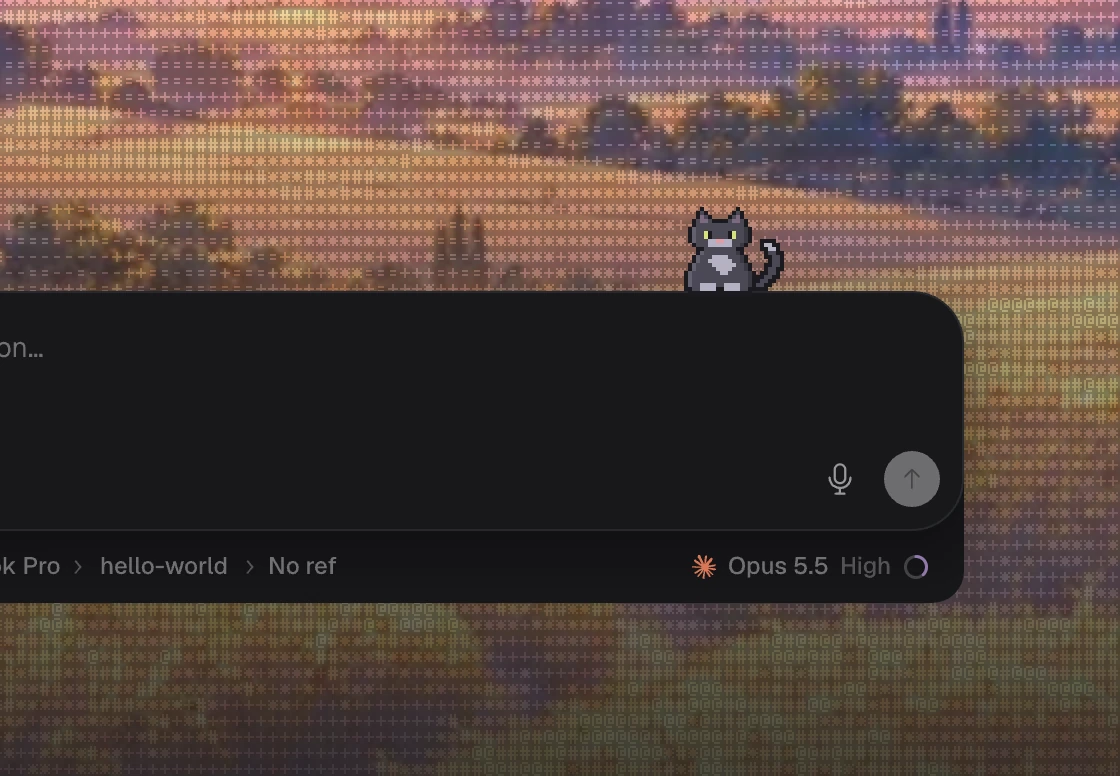
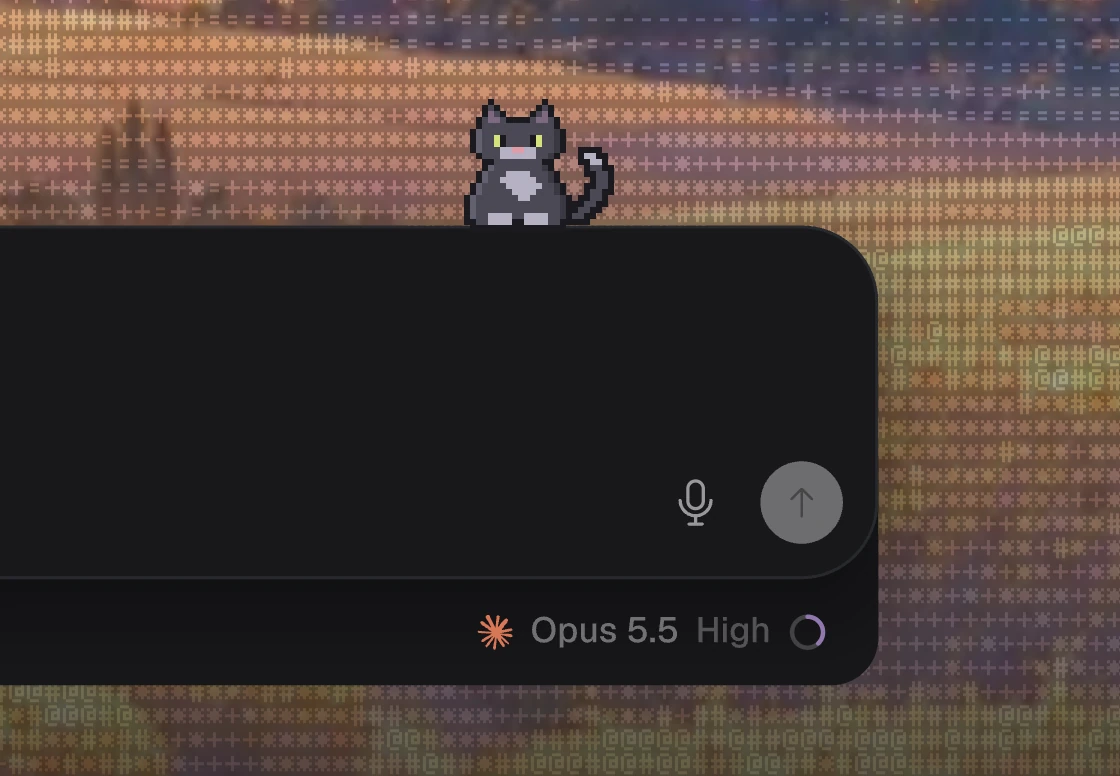
Landing cards: closer cuts, the cat on its feet, the chart alone
The cat card shows the composer's right half; the pixel sprite stands on
its foot, so a whole-pixel size never lifts it off the composer. The
machines card shows the Device list whole. The visuals card shows the
reply's visual alone, 340 wide, over Aurora's sky.

diff --git a/apps/landing/public/hero/cards.js b/apps/landing/public/hero/cards.js
@@ -16,14 +16,17 @@ const SCENES = {
 };
 const scene = (slug) => ({ slug, layers: SCENES[slug] });
 
-// A card: 560×388 points of the window (the gallery's 907×627 shape).
+// A card: 560×388 points of the window (the gallery's 907×627 shape), or
+// a closer cut of the same shape (zoomed in: more device pixels a point,
+// so it stays as sharp).
 const W = 560, H = 388;
+const zoomed = (x, y, w) => ({ crop: [x, y, w, (w * H) / W], maxScale: (2 * W) / w });
 // zeron/zgx's wallpaper: its layer is the art's box, the window's width
 // from the page's right edge (6 + 1164 − 1176 = −6), under the page card's
 // clip (the card inside its edge, radius 11), drawn through that branch's
 // ASCII.
 const ART_BOX = [NODE[0] + NODE[2] - WINDOW.w, NODE[1], WINDOW.w, NODE[3]];
-const base = (slug, crop) => ({
+const base = (slug, crop = [0, 0, W, H]) => ({
   window: WINDOW,
   crop,
   scene: scene(slug),
@@ -72,7 +75,10 @@ function catCard() {
     wake?.();
   }
   return {
-    ...base("wheat", [436, 150, W, H]),
+    // (Closer in: the composer's right half, its cat, the model chip, and
+    // the field above; cut only where the composer is empty.)
+    ...base("wheat"),
+    ...zoomed(620, 219, 380),
     label: "A pixel-art cat sitting on the Zeron message box over a golden wheat field drawn in characters",
     over: drawOver,
     sprites: [sprite],
@@ -105,7 +111,11 @@ function machinesCard() {
   const place = { device: "MacBook Pro", project: "site", branch: "main", open: true };
   const over = (ctx, s) => { drawOver(ctx, s, { place }); drawPopups(ctx, s); };
   return {
-    ...base("icebergs", [356, 360, W, H]),
+    // (Closer in: the device list whole, beside the Work in panel's right
+    // edge (its chevrons, the current branch's tag) and under the
+    // composer's foot with the model chip; cut where there's no text.)
+    ...base("icebergs"),
+    ...zoomed(564, 412, 420),
     label: "The Zeron composer's Work in menu open on a list of machines: this MacBook Pro, a Linux devbox, a Mac mini that's offline, and Cloud, over icebergs drawn in characters",
     over,
     ready: () => iconsReady([drawUnder, over]),
@@ -114,11 +124,16 @@ function machinesCard() {
 
 // ---------------------------------------------------------------- visuals
 
-// A session's reply with its visual, cut out of the session page (a session
-// has no wallpaper: the cut-out laid on the new chat's, Aurora), rounded as
-// the page card is (12) and shadowed as the composer is (0 12 32 #00000066).
-// tools/native/compose-visuals.py makes the native reference the same way.
-const PIECE = [336, 128, 504, 352];
+// A reply's visual alone (show_visual: a title, a legend, a grouped bar
+// chart; the visual 340 wide, a column of that width in a row), cut out of
+// the session page with 20 around it (a session has no wallpaper: the
+// cut-out laid on the new chat's, Aurora, up in the sky, clear of the
+// page's ask), rounded as the page card is (12) and shadowed as the
+// composer is (0 12 32 #00000066). Whole points from the app's layout, so
+// its text falls on the same device-pixel phases.
+const CROP_V = zoomed(30, 62, 436);
+const VISUAL = { x: 78, y: 106, width: 340, paragraph: false };
+const PIECE = [VISUAL.x - 20, VISUAL.y - 20, VISUAL.width + 40, 64 + 150 + 40];
 function visualsCard() {
   const over = (ctx, s) => {
     const [x, y, w, h] = PIECE;
@@ -129,12 +144,13 @@ function visualsCard() {
     ctx.clip();
     ctx.fillStyle = "rgb(22,22,24)";
     ctx.fillRect(x * s, y * s, w * s, h * s);
-    drawReply(ctx, s);
+    drawReply(ctx, s, VISUAL);
     ctx.restore();
   };
   return {
-    ...base("aurora", [308, 110, W, H]),
-    label: "A Zeron chat reply with a grouped bar chart the app drew itself, compile, link and test time over six months, over an aurora drawn in characters",
+    ...base("aurora"),
+    ...CROP_V,
+    label: "A grouped bar chart the Zeron app drew itself in a chat reply, compile, link and test time over six months, over an aurora drawn in characters",
     over,
     ready: () => iconsReady([drawUnder]),
   };

diff --git a/apps/landing/public/hero/chrome.js b/apps/landing/public/hero/chrome.js
@@ -591,29 +591,35 @@ const CARD_GROUND = [22, 22, 24];
 const SERIES = [["Compile", [146, 119, 176], [42, 38, 51, 47, 33, 29]], ["Link", [88, 194, 178], [12, 14, 11, 16, 9, 8]], ["Test", [233, 166, 75], [20, 22, 19, 25, 18, 21]]];
 const MONTHS = ["Jun", "Jul", "Aug", "Sep", "Oct", "Nov"];
 
-export function drawReply(ctx, s) {
-  const X = 356;
+// A reply's visual (show_visual): its title, legend and grouped bar chart,
+// as the app lays them. `x`, `y`: the column's left and the title's top;
+// `width`: the visual's (a column of that width in a row: the chart's
+// canvas spans it); `paragraph`: the reply's text above it too (15/24,
+// broken as the app breaks it at 464).
+export function drawReply(ctx, s, { x: X = 356, y: Y = 235, width: CW = 464, paragraph = true } = {}) {
   const primary = "rgb(237,237,239)";
-  // The paragraph: Geist 15/24, its lines as the app breaks them at 464.
-  ["Compile is still the biggest share, but it has dropped since August,", "when the workspace was split. Here are the last six months, by", "step:"]
-    .forEach((line, i) => text(ctx, s, line, X, 151 + 24 * i, 15, 400, primary, { line: 24 }));
+  if (paragraph) {
+    ["Compile is still the biggest share, but it has dropped since August,", "when the workspace was split. Here are the last six months, by", "step:"]
+      .forEach((line, i) => text(ctx, s, line, X, Y - 84 + 24 * i, 15, 400, primary, { line: 24 }));
+  }
   // The visual: its title (SemiBold 16/24), 12 below it the legend (8-point
   // dots, Geist 13/20 in text.secondary, 6 from the dot, 16 between).
-  text(ctx, s, "Where the build's time goes", X, 235, 16, 600, primary, { line: 24 });
+  text(ctx, s, "Where the build's time goes", X, Y, 16, 600, primary, { line: 24 });
   let lx = X;
   for (const [name, rgb] of SERIES) {
     ctx.beginPath();
-    ctx.arc((lx + 4) * s, 281 * s, 4 * s, 0, Math.PI * 2);
+    ctx.arc((lx + 4) * s, (Y + 46) * s, 4 * s, 0, Math.PI * 2);
     ctx.fillStyle = `rgb(${rgb.join(",")})`;
     ctx.fill();
     const w = Math.round(advanceOf(ctx, s, name, 13, 400));
-    text(ctx, s, name, lx + 14, 271, 13, 400, overF(T, 153 / 255, CARD_GROUND), { line: 20 });
+    text(ctx, s, name, lx + 14, Y + 36, 13, 400, overF(T, 153 / 255, CARD_GROUND), { line: 20 });
     lx += 14 + w + 16;
   }
-  // The plot (a canvas 464×150 at 356, 299): insets top 8, right 6, bottom
-  // 22, left the widest label + 8 (32.93: the app's label face measured);
-  // ticks 0..60 by 10 (nice_ticks over 0..51).
-  const top = 299 + 8, left = X + 32.93, pw = 464 - 32.93 - 6, ph = 120;
+  // The plot (a canvas CW×150, 64 under the title's top): insets top 8,
+  // right 6, bottom 22, left the widest label + 8 (32.93: the app's label
+  // face measured); ticks 0..60 by 10 (nice_ticks over 0..51, about 4: the
+  // same at any size).
+  const top = Y + 64 + 8, left = X + 32.93, pw = CW - 32.93 - 6, ph = 120;
   const vy = (v) => top + ph - (v / 60) * ph;
   for (let t = 0; t <= 60; t += 10) {
     ctx.fillStyle = over([255, 255, 255], t === 0 ? 18 : 10, CARD_GROUND);

diff --git a/apps/landing/public/hero/scene.js b/apps/landing/public/hero/scene.js
@@ -26,8 +26,10 @@
 //   sprites: [{ id, draw(ctx, s), box: [x, y, w, h], origin }]  drawn once
 //            or a pixel-art sprite: { id, frames: { name: image }, grid:
 //            [w, h], pixel (points a sprite pixel), at: [x, y] } — sampled
-//            nearest, a whole number of device pixels a sprite pixel, its
-//            corner on the device grid
+//            nearest, a whole number of device pixels a sprite pixel,
+//            standing on its foot (the bottom's middle) on the device grid
+//   maxScale                device pixels a point at most (default 2, the
+//                           app's own; a zoomed-in card allows more)
 //   animate(now) → { poses: { [id]: { rotate, alpha, frame } }, busy }  (optional)
 //   ready()                 a promise, before the first draw (icons, art)
 // }
@@ -120,8 +122,9 @@ export async function mountScene(container, spec, options = {}) {
   function resize() {
     const dpr = options.dpr ?? window.devicePixelRatio ?? 1;
     const css = container.clientWidth || cwPt;
-    // (At most the app's own 2x: past it the browser scales the canvas.)
-    scale = Math.min((css / cwPt) * dpr, 2);
+    // (At most the app's own 2x, or the spec's own cap for a zoomed-in
+    // card: past it the browser scales the canvas.)
+    scale = Math.min((css / cwPt) * dpr, spec.maxScale || 2);
     const w = Math.round(cwPt * scale), h = Math.round(chPt * scale);
     if (w === cw && h === ch) return;
     cw = w; ch = h;
@@ -168,10 +171,14 @@ export async function mountScene(container, spec, options = {}) {
       if (p.alpha === 0) continue;
       if (sp.textures) {
         // A pixel-art sprite: a whole number of device pixels a sprite
-        // pixel, its corner on a whole device pixel.
+        // pixel, so at most scales it is a little larger or smaller than
+        // exact; it stands on its foot (the bottom's middle, on a whole
+        // device pixel), so it stays seated where the plugin seats it.
         const k = Math.max(1, Math.round(sp.pixel * scale));
-        const x = Math.round((sp.at[0] - cx) * scale), y = Math.round((sp.at[1] - cy) * scale);
-        renderer.drawSprite(sp.textures[p.frame || "idle"], cw, ch, x, y, sp.grid[0] * k, sp.grid[1] * k);
+        const sw = sp.grid[0] * k, sh = sp.grid[1] * k;
+        const footX = sp.at[0] + (sp.grid[0] * sp.pixel) / 2, footY = sp.at[1] + sp.grid[1] * sp.pixel;
+        const x = Math.round((footX - cx) * scale - sw / 2), y = Math.round((footY - cy) * scale) - sh;
+        renderer.drawSprite(sp.textures[p.frame || "idle"], cw, ch, x, y, sw, sh);
         continue;
       }
       const [x, y] = sp.box;

diff --git a/apps/landing/tools/native/rig/card.html b/apps/landing/tools/native/rig/card.html
@@ -5,7 +5,7 @@
 <title>Card rig</title>
 <style>
   html, body { margin: 0; background: #000; }
-  #card { width: 560px; }
+  #card { width: 100vw; }
   #card canvas { display: block; width: 100%; height: auto; }
 </style>
 </head>

diff --git a/apps/landing/tools/native/compose-visuals.py b/apps/landing/tools/native/compose-visuals.py
@@ -17,8 +17,13 @@ import sys
 from pathlib import Path
 from PIL import Image
 
-CROP = (308, 110, 560, 388)
-PIECE = (336, 128, 504, 352)
+# The card (public/hero/cards.js): the visual, 340 wide, its title's top at
+# 356, 235 on the session page (the paragraph above it, the conversation
+# 440 wide), cut out with 20 around it and laid with its title at 78, 106
+# (whole points: the same device-pixel phases) on the ground.
+CROP = (30, 62, 436, 436 * 388 / 560)
+SHIFT = (278, 129)
+PIECE = (58, 86, 380, 254)
 RADIUS = 12
 SHADOW = (0, 12, 32, 0.4)
 
@@ -64,7 +69,8 @@ for j in range(H):
 for name in names:
     ground = Image.open(ground_dir / f"{name}.png").convert("RGB")
     g = ground.crop((round(cx * k), round(cy * k), round((cx + cw) * k), round((cy + ch) * k)))
-    p = page.crop((round(cx * k), round(cy * k), round((cx + cw) * k), round((cy + ch) * k)))
+    sx, sy = SHIFT
+    p = page.crop((round((cx + sx) * k), round((cy + sy) * k), round((cx + sx) * k) + W, round((cy + sy) * k) + H))
     gp, pp = g.load(), p.load()
     res = Image.new("RGB", (W, H))
     rp = res.load()

diff --git a/apps/landing/tools/native/make-ui.py b/apps/landing/tools/native/make-ui.py
@@ -143,7 +143,8 @@ require("@app/screens/settings/prefs").conversation_width:set(440)
 local VISUAL = [[
 local months = { "Jun", "Jul", "Aug", "Sep", "Oct", "Nov" }
 return function()
-  return ui.column { gap = 12,
+  -- (340 wide: a column of that width in a row, as the card shows it.)
+  return ui.row { ui.column { width = 340, gap = 12,
     ui.text { "Where the build's time goes", size = "lg", weight = "semibold" },
     ui.chart { type = "bar", height = 150, x = months, unit = "s",
       series = {
@@ -151,7 +152,7 @@ return function()
         { name = "Link", values = { 12, 14, 11, 16, 9, 8 } },
         { name = "Test", values = { 20, 22, 19, 25, 18, 21 } },
       } },
-  }
+  } }
 end
 ]]
 table.insert(model.chats, { id = "c1", title = "CI time by step", project = "hello", device = "mac", updated = os.time() - 60, created = os.time() - 600, agent = "claude" })

diff --git a/apps/landing/tools/native/crop.py b/apps/landing/tools/native/crop.py
@@ -8,7 +8,7 @@ import sys
 from pathlib import Path
 from PIL import Image
 
-CROPS = {"cat": (436, 150, 560, 388), "machines": (356, 360, 560, 388), "visuals": (308, 110, 560, 388)}
+CROPS = {"cat": (620, 219, 380, 380 * 388 / 560), "machines": (564, 412, 420, 420 * 388 / 560), "visuals": (30, 62, 436, 436 * 388 / 560)}
 src, out, card = Path(sys.argv[1]), Path(sys.argv[2]), sys.argv[3]
 names = sys.argv[4].split(",") if len(sys.argv) > 4 else [p.stem for p in src.glob("*.png") if "-" not in p.stem]
 out.mkdir(parents=True, exist_ok=True)

diff --git a/apps/landing/tools/native/README.md b/apps/landing/tools/native/README.md
@@ -131,8 +131,11 @@ What's left, and why it can't go:
 
 ## The gallery's cards
 
-Three cut-outs of the app (`public/hero/cards.js`), each 560×388 points of
-the window, each over its own scene of the Parallax scenes plugin. They're
+Three cut-outs of the app (`public/hero/cards.js`), each in the gallery's
+560×388 shape, cut close (380 to 436 points of the window wide, drawn at up
+to 2.67–2.95 device pixels a point so they stay sharp), each over its own
+scene of the Parallax scenes plugin. `capture.mjs` with `WIDTH=<crop width>`
+takes a card at the app's 2x, to diff against the native crop. They're
 drawn from **zeron/zgx** (what the beta ships), not main: that branch's
 wallpaper effects were rewritten (linear light, a paper, a new ASCII ramp
 ` .:-=+*#@` at 1.1-point font pixels, the fade in the shader, the layer the
@@ -144,9 +147,9 @@ glyph stroke): against that branch's native hero (`--card hero`), MAE
 
 | card | scene | what it shows |
 |---|---|---|
-| visuals | Aurora | a session's reply with a grouped bar chart the app's host draws (show_visual), cut out of the session page and laid on the new chat's wallpaper (a session has none) |
-| cat | Wheat | the composer with the Composer cat plugin (`apps/zgx/plugins-dev/composer-cat`, zeron/composer-cat): a 28×24 pixel-art sprite, 2 points a pixel, sampled nearest in both |
-| machines | Icebergs | the composer's Work in picker open from its place chip, its Device row's machines beside it: this Mac, a Linux devbox, a Mac mini away, Cloud |
+| visuals | Aurora | a reply's visual alone (show_visual: title, legend, grouped bar chart, the visual 340 wide), cut out of the session page and laid on the new chat's wallpaper in the sky (a session has none) |
+| cat | Wheat | the composer's right half with the Composer cat plugin (`apps/zgx/plugins-dev/composer-cat`, zeron/composer-cat): a 28×24 pixel-art sprite, 2 points a pixel, sampled nearest in both, standing on its foot |
+| machines | Icebergs | the Device submenu of the composer's Work in picker, whole, beside that panel's right edge and under the composer's foot: this Mac, a Linux devbox, a Mac mini away, Cloud |
 
 Native references: a build of zeron/composer-cat with debug assertions on
 (`CARGO_PROFILE_RELEASE_DEBUG_ASSERTIONS=true cargo build --release`), so it
@@ -169,6 +172,14 @@ Results (Nov 11 2026, the same rig), mean absolute error of 255 per channel:
 | visuals | 0.75 | 0.75 | 0.75 | text edges; the chart's axis labels (below) |
 | cat | 0.07 | 0.07 | 0.07 | the composer's text edges (the cat 0.02, the wallpaper 0.00) |
 | machines | 0.37 | 0.37 | 0.37 | the panels' text and icon edges (wallpaper 0.00) |
+
+Closer cuts (Nov 11, the same references, no new native windows):
+cat 0.07 (cat 0.03); machines 0.31 above Cloud's row (the reference
+predates Cloud's row losing its sub-line); visuals: its title, legend and
+value labels the same pixels as the verified card's (moved by whole
+points), the 340-wide plot from the same code; its native reference
+(`make-ui.py --card visuals` now lays the visual 340 wide,
+`compose-visuals.py` cuts it) is still to be taken on another machine.
 
 Motion, against the real plugin in each card's fixture: every web frame is
 a step of the 120 Hz spring model; the app's layers sit on it in 21,987 of
